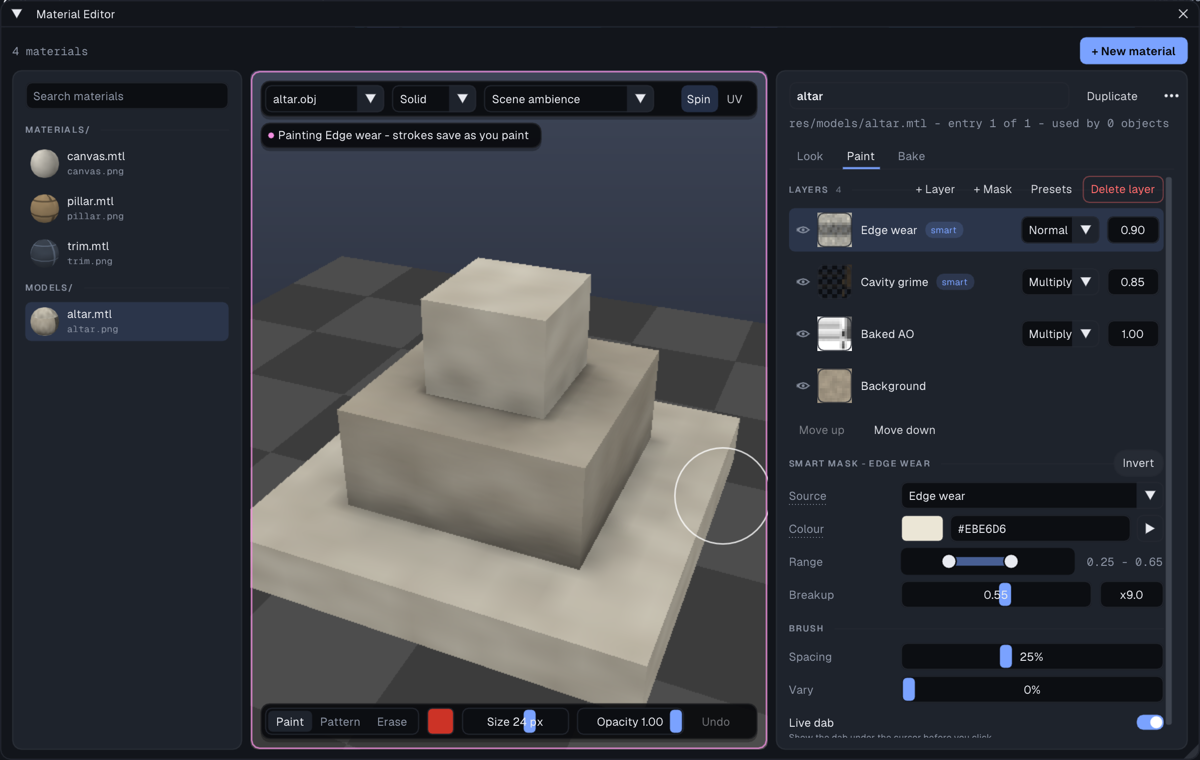
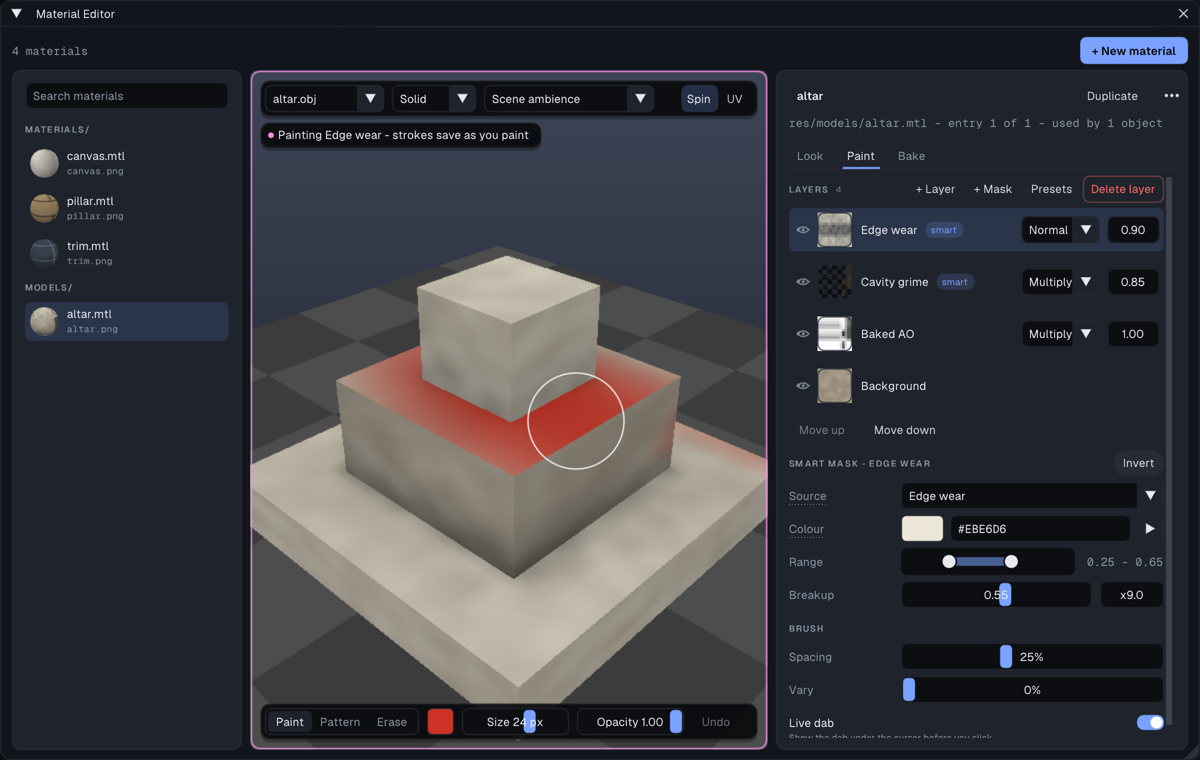
Material Editor: header counts a model's own .mtl as used; readout fits its pill
Divergence (vs MaterialEditor-Look board): the header said 'used by 0 objects'
for res/models/altar.mtl although altar.obj is placed in material-lab (only
objects with an assigned material override were counted), and the preview's
bottom-left readout was cut off mid-word ('... - 24 verts - 128') because
'(36 on this entry)' was always printed.

Fix: count objects without an override whose model has the same stem as the
.mtl (the sibling convention openMaterialEditor already uses); print
'(N on this entry)' only when the entry covers part of the mesh, and separate
the readout with middle dots like the board.

Verified: --ui-script on a copy of material-lab, Material Editor > altar.mtl:
header 'used by 1 object', readout '36 tris · 24 verts · 128x128' unclipped.

diff --git a/src/mateditor_ui.cpp b/src/mateditor_ui.cpp
@@ -2873,11 +2873,13 @@ void App::drawMaterialEditorWindow() {
             int verts = 0;
             for (int pi : mm.posIdx) verts = std::max(verts, pi + 1);
             char sb[128];
-            if (verts > 0)
-                std::snprintf(sb, sizeof(sb), "%d tris (%d on this entry) - %d verts",
-                              mm.triCount(), painted, verts);
-            else
-                std::snprintf(sb, sizeof(sb), "%d tris (%d on this entry)", mm.triCount(), painted);
+            // "(N on this entry)" only when the entry covers part of the mesh:
+            // the readout pill has room for one line next to Editor | As PS2.
+            int n = painted == mm.triCount()
+                        ? std::snprintf(sb, sizeof(sb), "%d tris", mm.triCount())
+                        : std::snprintf(sb, sizeof(sb), "%d tris (%d on this entry)", mm.triCount(), painted);
+            if (verts > 0 && n > 0 && n < (int)sizeof(sb))
+                std::snprintf(sb + n, sizeof(sb) - n, " \xC2\xB7 %d verts", verts);
             matEdStatsLine_ = sb;
             matEdStatsWarn_ = !hasUv || painted == 0;
             if (!hasUv)
@@ -3245,7 +3247,7 @@ void App::drawMaterialEditorWindow() {
             if (!matEdStatsLine_.empty()) {
                 std::string line = matEdStatsLine_;
                 if (matEdInfoOk_ && !texRel.empty())
-                    line += " - " + std::to_string(matEdInfoW_) + "x" + std::to_string(matEdInfoH_);
+                    line += " \xC2\xB7 " + std::to_string(matEdInfoW_) + "x" + std::to_string(matEdInfoH_);
                 ui::FontScope mono(ui::monoFont());
                 const ImVec2 ts = ImGui::CalcTextSize(line.c_str());
                 const ImVec2 pb(std::min(imgPos.x + m + ts.x + fs * 1.2f, imgEnd.x - m - scaled(190)), imgEnd.y - m);
@@ -3364,9 +3366,17 @@ void App::drawMaterialEditorWindow() {
         }
         if (matEdSel_ >= (int)matEdMats_.size()) matEdSel_ = (int)matEdMats_.size() - 1;
         // path - entry n of N - used by
+        // an assigned override, or (no override) a model whose own library is
+        // this file - the sibling .mtl with the same stem (altar.obj -> altar.mtl)
         int users = 0;
+        const std::string ownStem = std::filesystem::path(matEdPath_).replace_extension().generic_string();
         for (const SceneData& sc : project_.scenes)
-            for (const SceneObject& o : sc.objects) users += o.materialPath == matEdPath_ ? 1 : 0;
+            for (const SceneObject& o : sc.objects) {
+                if (o.materialPath == matEdPath_) ++users;
+                else if (o.materialPath.empty() && o.type == PrimitiveType::Model && !o.modelPath.empty() &&
+                         std::filesystem::path(o.modelPath).replace_extension().generic_string() == ownStem)
+                    ++users;
+            }
         char idLine[256];
         std::snprintf(idLine, sizeof idLine, "%s - entry %d of %d - used by %d object%s",
                       matEdPath_.c_str(), matEdSel_ + 1, (int)matEdMats_.size(), users,

diff --git a/docs/material-painting.md b/docs/material-painting.md
@@ -27,7 +27,8 @@ imports, moves and deletes refresh the list immediately. **+ New material**
 (top right) makes a new `.mtl` in `res/materials`.
 
 The inspector's header names the entry (click to rename it), says where it
-lives - `res/models/altar.mtl - entry 1 of 1 - used by 2 objects` - and holds
+lives - `res/models/altar.mtl - entry 1 of 1 - used by 2 objects` (objects
+assigned this file, plus models that use their own same-name `.mtl`) - and holds
 **Duplicate** and a `...` menu (Undo, add / remove / reorder entries, Delete
 material...). A file with several entries shows them as chips under the
 header; the first is what primitives and emitters use.
@@ -44,7 +45,9 @@ The preview's controls float on it:
   any other project model), **Solid / Wireframe / UV checker / PS2 CLUT**,
   the **light** (scene ambience or a neutral studio light), **Spin** and
   **UV** (the UV layout panel under the preview);
-- bottom left: triangles, vertices and the texture size;
+- bottom left: triangles, vertices and the texture size (`36 tris · 24 verts ·
+  128x128`; "(N on this entry)" is added when the entry covers only part of
+  the mesh);
 - bottom right: **Editor | As PS2** - the texture quantized exactly as the
   build ships it. Its palette and dithering choices appear in the Look tab
   while it is on.
